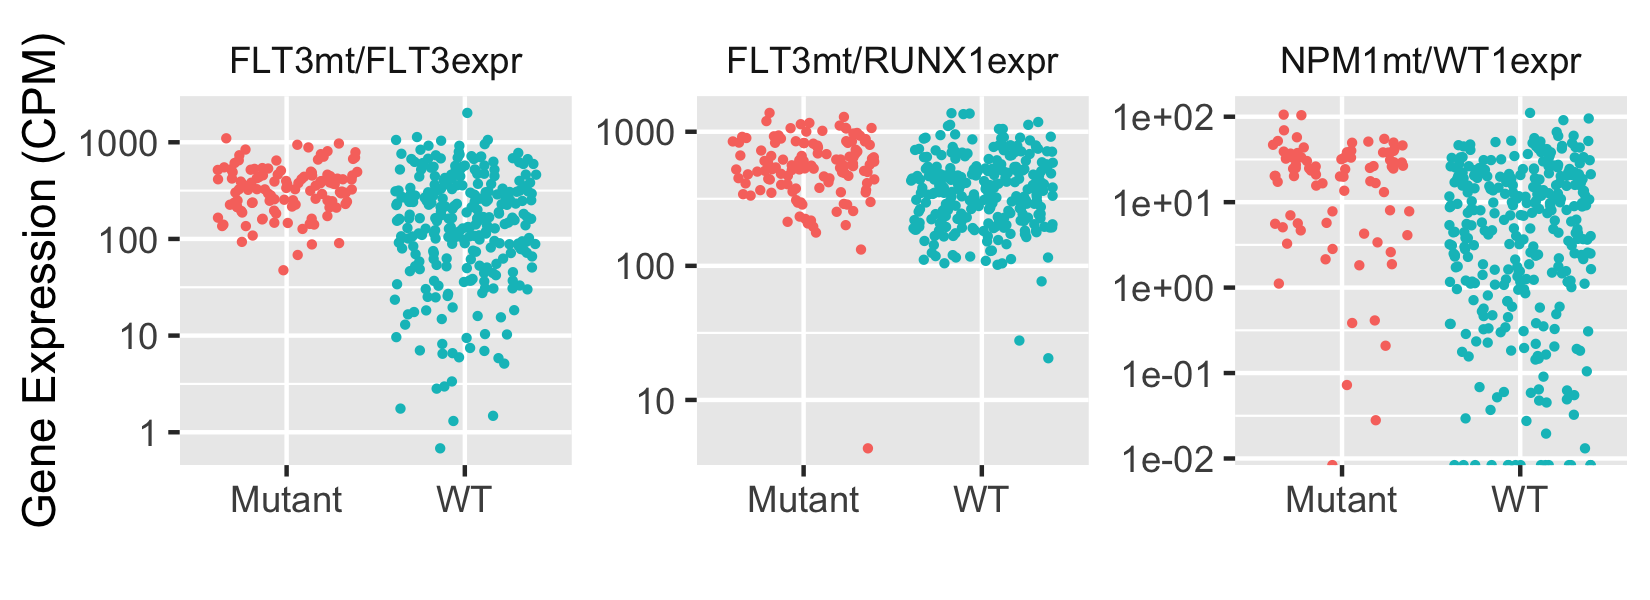
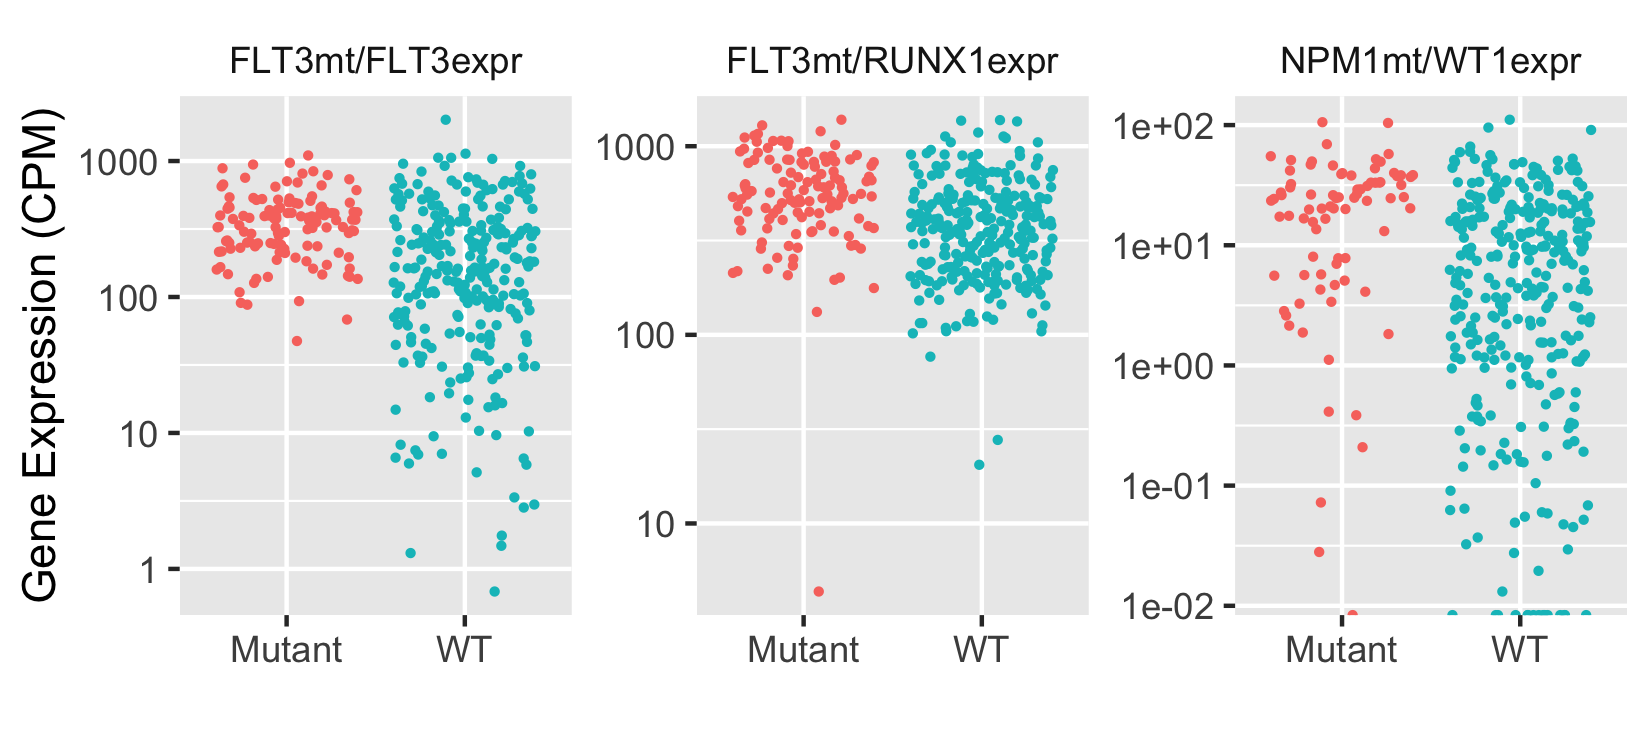
height increase

diff --git a/README.md b/README.md
@@ -72,7 +72,7 @@ sbb=theme(strip.background=element_blank())
 ltp=theme(legend.position="none")
 sy=scale_y_log10()
 dd%>%ggplot(aes(x=State,y=E,color=State))+geom_jitter(size=0.5)+gy+gx+sbb+ltp+sy+facet_wrap(~genes,scales="free")
-ggsave("~/Results/AML/jitter3.png",width=5.5,height=2)
+ggsave("~/Results/AML/jitter3.png",width=5.5,height=2.5)
 ```
 
 ## Survival
